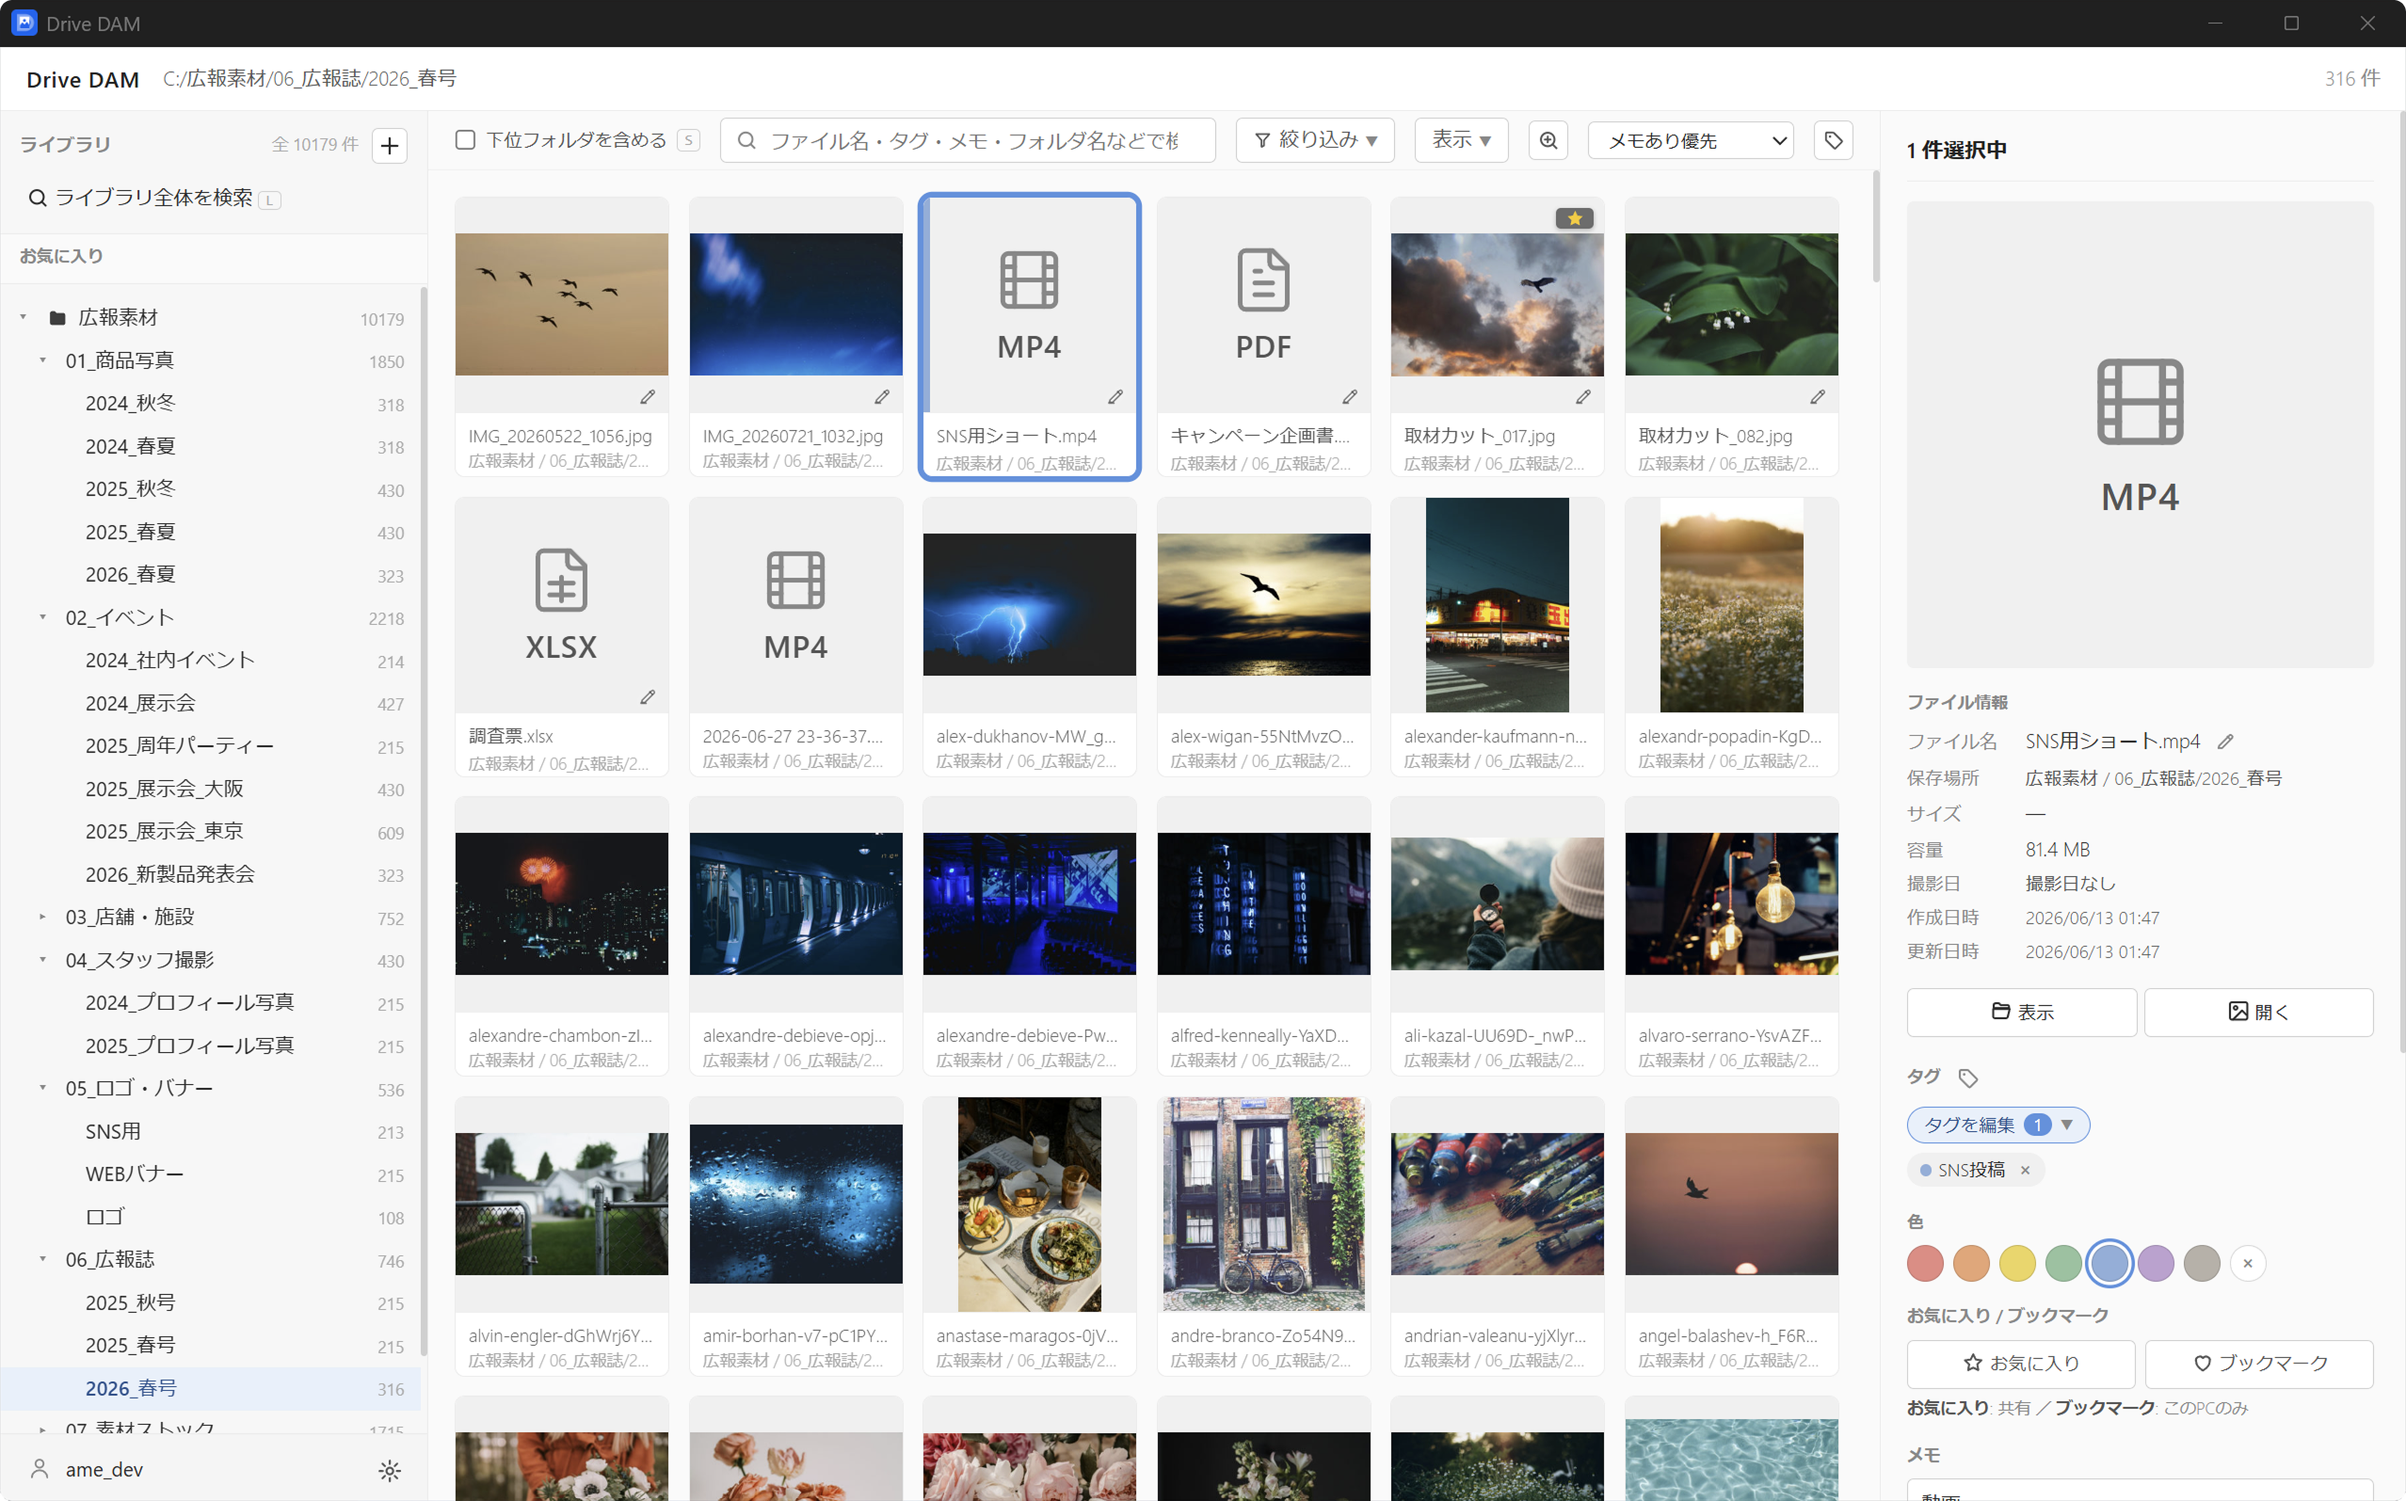
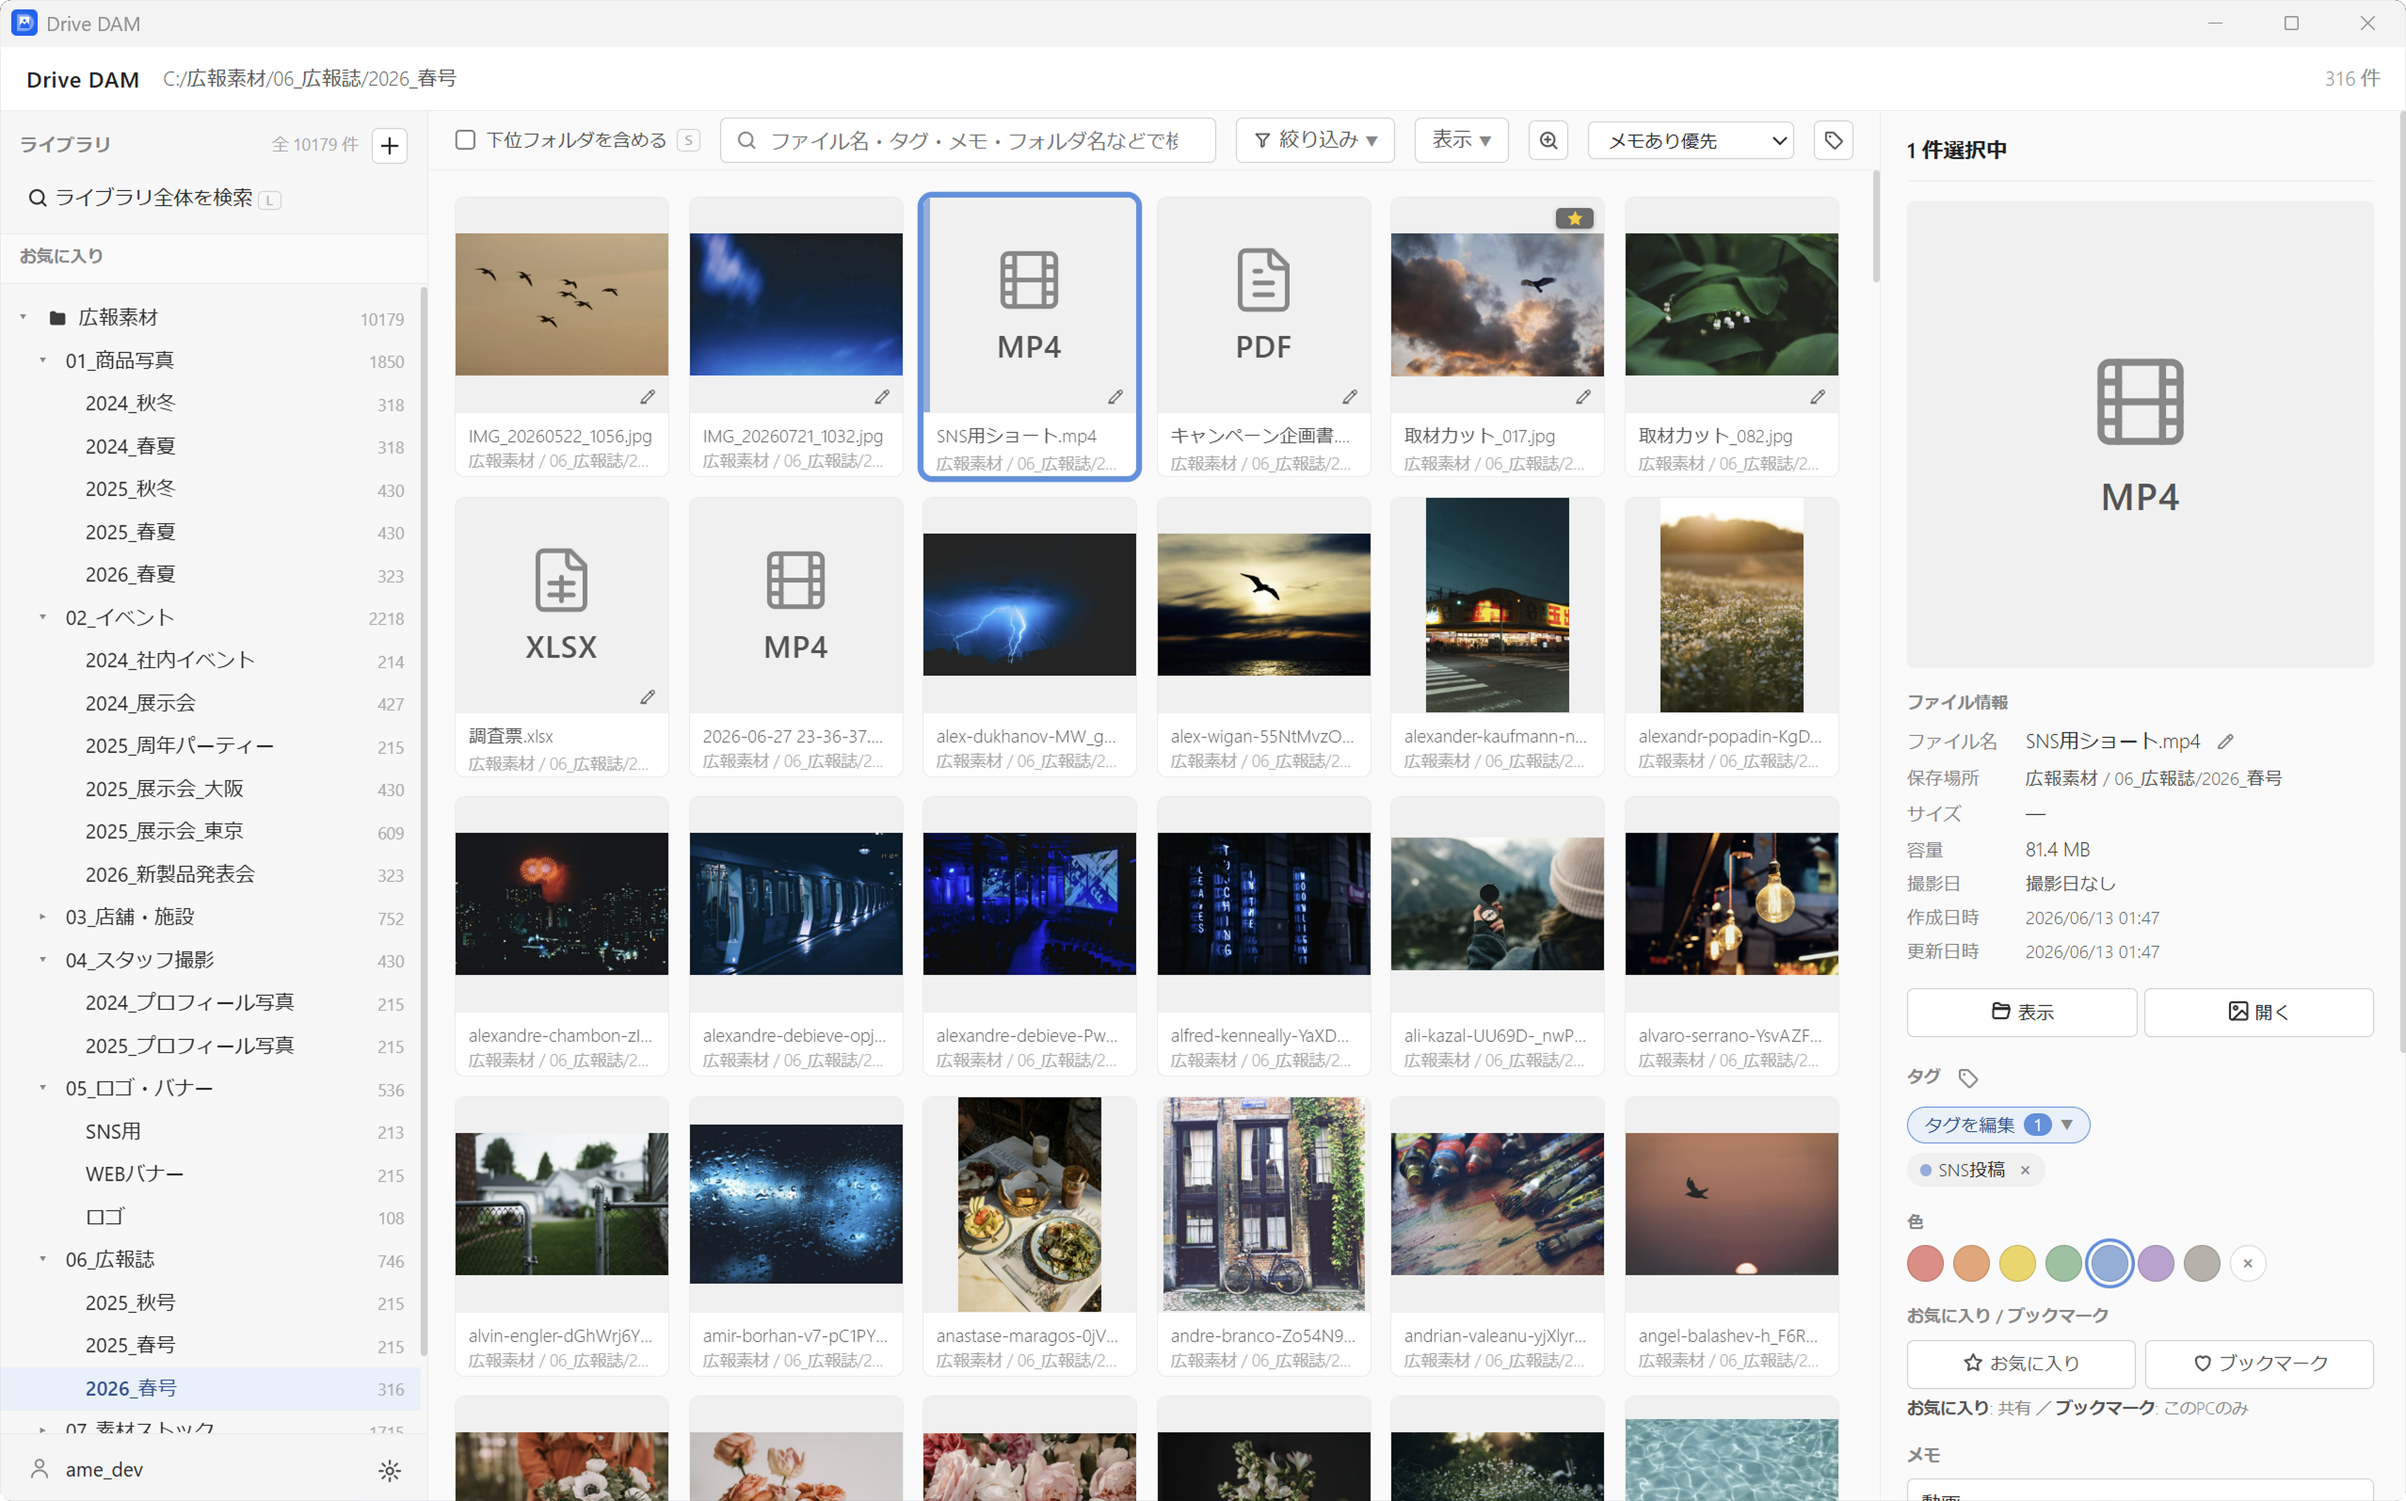
Drive DAM LP をブラッシュアップ(背景色・スクショ・ヘッダー・コピー)
- 背景色をベージュ系からクールグレー系(#F6F8FA)に変更。
  青いキーカラーとの馴染みを改善
- スクショ 3 枚(hero-main/func-files/func-thumbs)を更新版に差し替え
- ヘッダーにページ内アンカーメニューを追加
- 安心設計→価格の遷移を角丸パネル構図に変更
- フッターの対応ストレージ表現を整理、不要な列を削除
- 主要機能 3 つの説明文をリライト

Changed region(s): [[0.0, 0.0, 1.0, 0.0307]]

diff --git a/src/styles/drivedam.css b/src/styles/drivedam.css
@@ -3,8 +3,8 @@
    紙白+墨のエディトリアル。すべての動きは墨の濃淡の中で起こす。
    ================================================================ */
 :root{
-  --paper:#F7F5F0;
-  --paper-deep:#F0EDE6;
+  --paper:#F6F8FA;
+  --paper-deep:#EEF1F5;
   --ink:#1B1A17;
   --ink-2:#45433D;
   --ink-3:#8B887F;
@@ -81,7 +81,7 @@ body::after{
   content:"";position:absolute;left:0;right:0;bottom:0;height:1px;
   background:var(--line);transform:scaleX(0);transition:transform .6s var(--ease);
 }
-.site-head.scrolled{background:rgba(247,245,240,.92);backdrop-filter:blur(10px)}
+.site-head.scrolled{background:rgba(246,248,250,.92);backdrop-filter:blur(10px)}
 .site-head.scrolled::after{transform:scaleX(1)}
 .head-in{
   max-width:var(--max);margin:0 auto;padding:0 var(--pad-x);
@@ -100,6 +100,18 @@ body::after{
   padding-bottom:2px;
 }
 .head-link:hover{background-size:100% 1px;color:var(--ink)}
+.head-nav{
+  display:flex;gap:clamp(18px,2.4vw,32px);align-items:center;
+  flex:1;justify-content:center;
+}
+.head-nav a{
+  font-size:13px;font-weight:500;color:var(--ink-2);
+  background-image:linear-gradient(var(--ink),var(--ink));
+  background-repeat:no-repeat;background-size:0% 1px;background-position:left calc(100% - 1px);
+  transition:background-size .3s var(--ease),color .3s var(--ease);
+  padding-bottom:2px;
+}
+.head-nav a:hover{background-size:100% 1px;color:var(--ink)}
 .progress{
   position:fixed;top:0;left:0;height:2px;width:100%;z-index:101;
   background:var(--ink);opacity:.22;transform:scaleX(0);transform-origin:left center;
@@ -251,7 +263,7 @@ section{position:relative}
   position:relative;aspect-ratio:4/3.1;border-radius:14px;overflow:hidden;
   background:
     radial-gradient(120% 90% at 80% -10%,rgba(96,148,235,.16),transparent 55%),
-    linear-gradient(165deg,rgba(74,124,226,.085),rgba(74,124,226,.02) 55%,rgba(247,245,240,0));
+    linear-gradient(165deg,rgba(74,124,226,.085),rgba(74,124,226,.02) 55%,rgba(246,248,250,0));
   border:1px solid rgba(74,124,226,.16);
 }
 .ill [data-t]{opacity:0;transform:translateY(9px);transition:opacity .6s var(--ease),transform .6s var(--ease)}
@@ -416,6 +428,7 @@ section{position:relative}
   letter-spacing:-.01em;line-height:1.4;margin-bottom:16px;
 }
 .func-b{font-size:15px;line-height:2.0;max-width:640px;margin-bottom:32px}
+.func-note{font-size:12.5px;color:var(--ink-3);line-height:1.9}
 .func-b code{
   font-family:"Inter",sans-serif;font-size:.92em;font-weight:600;color:var(--ink);
   background:rgba(27,26,23,.05);padding:1px 6px;border-radius:4px;
@@ -438,7 +451,7 @@ section{position:relative}
   position:relative;aspect-ratio:16/10;overflow:hidden;
   background:
     radial-gradient(120% 90% at 80% -10%,rgba(96,148,235,.14),transparent 55%),
-    linear-gradient(165deg,rgba(74,124,226,.075),rgba(74,124,226,.02) 55%,rgba(247,245,240,0));
+    linear-gradient(165deg,rgba(74,124,226,.075),rgba(74,124,226,.02) 55%,rgba(246,248,250,0));
 }
 .shot-panel img{
   position:absolute;height:auto;border-radius:8px;
@@ -479,7 +492,7 @@ section{position:relative}
   display:flex;align-items:center;justify-content:center;
   background:
     radial-gradient(120% 90% at 80% -10%,rgba(96,148,235,.14),transparent 55%),
-    linear-gradient(165deg,rgba(74,124,226,.075),rgba(74,124,226,.02) 55%,rgba(247,245,240,0));
+    linear-gradient(165deg,rgba(74,124,226,.075),rgba(74,124,226,.02) 55%,rgba(246,248,250,0));
 }
 .fcard-vis.modal img{
   max-width:90%;max-height:90%;width:auto;height:auto;border-radius:8px;
@@ -504,7 +517,7 @@ section{position:relative}
 .fcard-vis.compose{
   background:
     radial-gradient(120% 90% at 80% -10%,rgba(96,148,235,.14),transparent 55%),
-    linear-gradient(165deg,rgba(74,124,226,.075),rgba(74,124,226,.02) 55%,rgba(247,245,240,0));
+    linear-gradient(165deg,rgba(74,124,226,.075),rgba(74,124,226,.02) 55%,rgba(246,248,250,0));
 }
 .fcard-vis.compose img{
   position:absolute;height:auto;border-radius:6px;
@@ -536,8 +549,14 @@ section{position:relative}
 .assure-t{grid-column:1/5;font-weight:600;color:var(--ink);font-size:16.5px;line-height:1.8}
 .assure-b{grid-column:5/12;font-size:15px;line-height:2.0}
 
-/* --- price(コンバージョンエリア。墨面+中央光背) --- */
-.price{background:var(--night);color:var(--paper-night);position:relative;overflow:hidden}
+/* --- price(コンバージョンエリア。墨面+中央光背)
+       紙の上に角丸の墨パネルを置く構図。assure との間に十分な呼吸を取る --- */
+.price{
+  background:var(--night);color:var(--paper-night);position:relative;overflow:hidden;
+  margin-top:clamp(110px,13vw,190px);
+  margin-inline:clamp(10px,1.5vw,24px);
+  border-radius:clamp(20px,3vw,36px);
+}
 .price::before{
   content:"";position:absolute;left:50%;top:-14%;transform:translateX(-50%);
   width:min(92vw,1100px);aspect-ratio:1;
@@ -636,13 +655,14 @@ section{position:relative}
 .foot-brand{grid-column:1/5}
 .foot-brand .brand{font-size:16px}
 .foot-brand p{font-size:13px;line-height:2.0;color:var(--ink-3);margin-top:14px;max-width:300px}
-.foot-col{grid-column:span 3}
+.foot-col{grid-column:6/13}
 .foot-t{
   font-family:"Inter",sans-serif;font-size:10.5px;font-weight:600;
   letter-spacing:.16em;text-transform:uppercase;color:var(--ink-3);margin-bottom:18px;
 }
 .foot-col ul{list-style:none}
 .foot-col li{font-size:13.5px;line-height:1.8;padding:5px 0;color:var(--ink-2)}
+.foot-desc{font-size:13.5px;line-height:2.0;color:var(--ink-2);max-width:340px}
 .foot-cta{grid-column:9/13}
 .foot-base{
   display:flex;justify-content:space-between;align-items:center;gap:24px;flex-wrap:wrap;
@@ -681,8 +701,9 @@ a:focus-visible,button:focus-visible{outline:2px solid var(--accent);outline-off
   .assure-t{grid-column:1/13;margin-bottom:8px}
   .assure-b{grid-column:1/13}
   .foot-brand{grid-column:1/13;margin-bottom:40px}
-  .foot-col{grid-column:span 6;margin-bottom:32px}
+  .foot-col{grid-column:1/13;margin-bottom:32px}
   .foot-cta{grid-column:1/13}
+  .head-nav{display:none}
 }
 @media (max-width:640px){
   .steps-grid{grid-template-columns:1fr;row-gap:36px}
